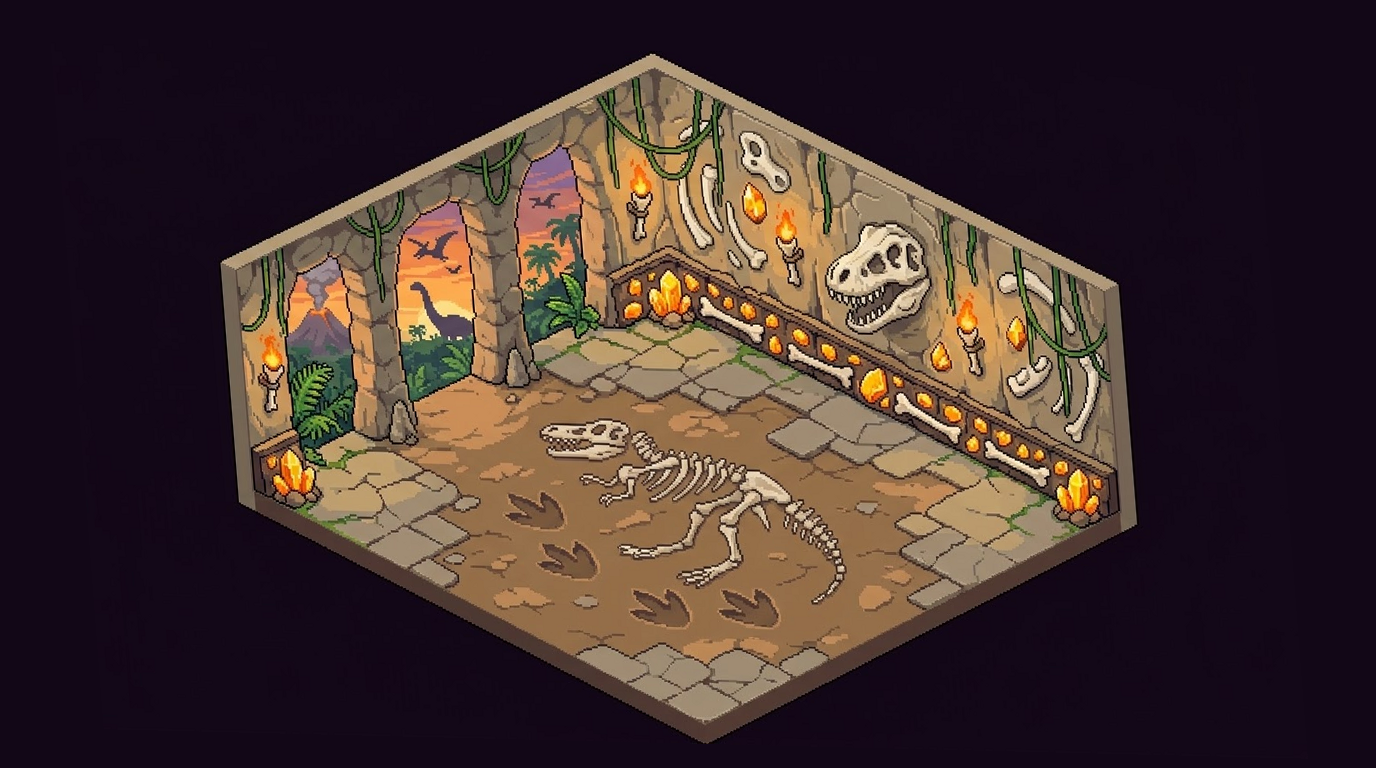
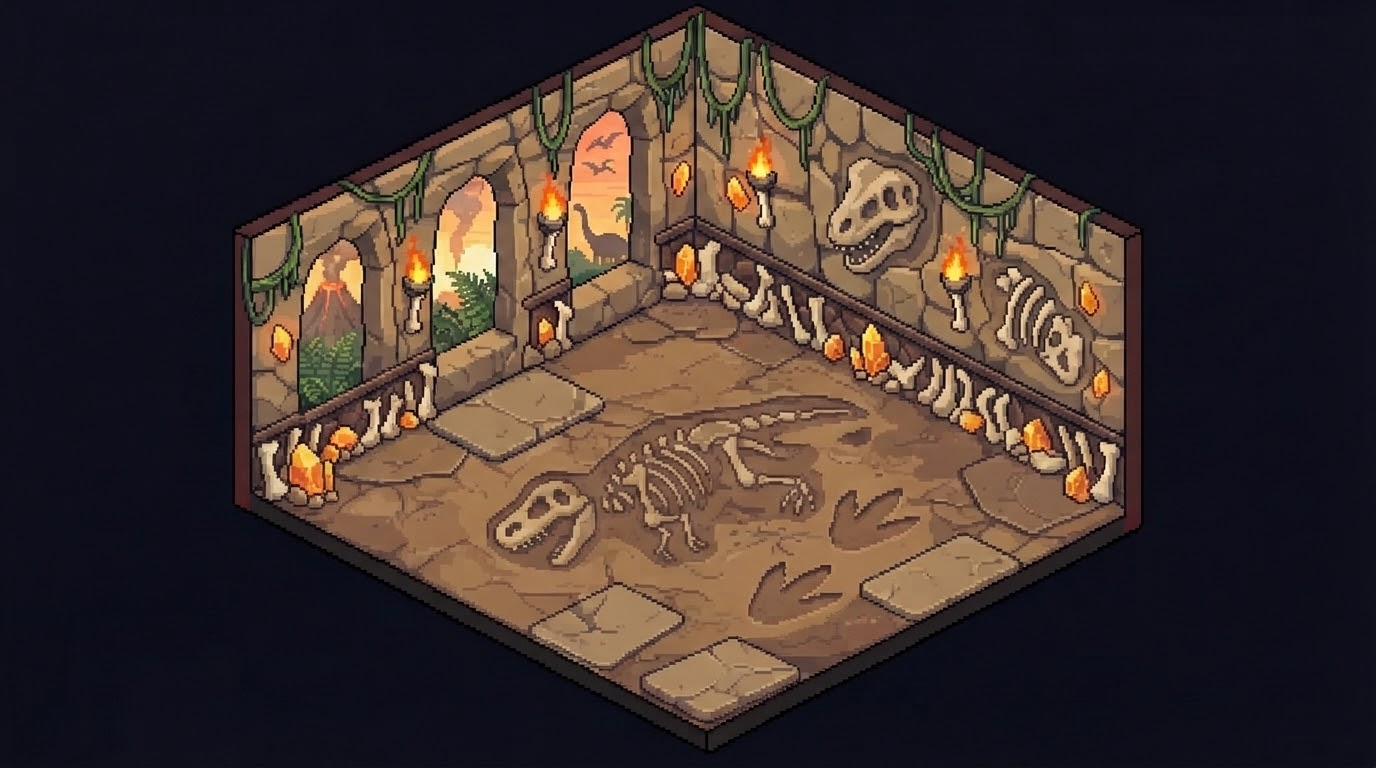
テーマ大量追加(第1弾6種)+ダイナソー作り直し
- Stitch製の新部屋: 幽霊屋敷/海賊船/サーキット/ドワーフ鉱山/地獄/スチームパンク
- ダイナソーを無理な変形なしで再生成(w905, 床がグリッドに自然整合)
- サイズ指定テンプレ改善: 「四隅にvoid余白を残す＝基準と同占有率」で過大化を抑制
- ROOM_TEX/SERIES/ROOM_THEMES/BG_META/preloadに登録。全15テーマに

diff --git a/factory-phaser.html b/factory-phaser.html
@@ -132,6 +132,12 @@ const SERIES={
   scifi:{n:'🚀 SF宇宙',    price:6000, sky:'scifi',    floor:'wood',    decos:[]},
   cabin:{n:'🌲 森コテージ', price:6000, sky:'cabin',    floor:'wood',    decos:[]},
   dino:{n:'🦖 ダイナソー',  price:6000, sky:'dino',     floor:'wood',    decos:[]},
+  haunted:{n:'👻 幽霊屋敷',  price:6000, sky:'haunted',  floor:'wood',    decos:[]},
+  pirate:{n:'🏴☠ 海賊船',   price:6000, sky:'pirate',   floor:'wood',    decos:[]},
+  circuit:{n:'🏁 サーキット', price:6000, sky:'circuit',  floor:'wood',    decos:[]},
+  dwarf:{n:'⛏ ドワーフ鉱山', price:6000, sky:'dwarf',    floor:'wood',    decos:[]},
+  hell:{n:'😈 地獄',         price:6000, sky:'hell',     floor:'wood',    decos:[]},
+  steampunk:{n:'⚙ スチパン', price:6000, sky:'steampunk',floor:'wood',    decos:[]},
 };
 
 let G={ pity:0, inv:{}, prodP:90, money:0, machines:[{type:'red',lvl:1}], belts:0, decos:{},
@@ -316,9 +322,9 @@ function applyOwned(){ const s=window.__scene; if(!s)return;
   reconcileStock(); saveGame();
   s.setSkyTheme(G.bg); s.setFloor(G.floor); s.applySkins(G.skins); }
 /* ===== 編集パレット: 大項目→在庫から選ぶ→床クリックで設置 ===== */
-const ROOM_THEMES=['arabia','undersea','japan','china','diner','fantasy','scifi','cabin','dino'];
+const ROOM_THEMES=['arabia','undersea','japan','china','diner','fantasy','scifi','cabin','dino','haunted','pirate','circuit','dwarf','hell','steampunk'];
 const SKY_THEMES=['blue','sunset','night','space','aurora'];
-const BG_META={auto:{e:'🕐',n:'標準'},blue:{e:'☀',n:'快晴'},sunset:{e:'🌆',n:'夕焼け'},night:{e:'🌙',n:'星空'},space:{e:'🌌',n:'宇宙'},aurora:{e:'🌈',n:'オーロラ'},arabia:{e:'🕌',n:'アラビア'},undersea:{e:'🐚',n:'海底'},japan:{e:'⛩',n:'日本'},china:{e:'🐉',n:'中華'},diner:{e:'🍔',n:'ダイナー'},fantasy:{e:'🧙',n:'ファンタジー'},scifi:{e:'🚀',n:'SF宇宙'},cabin:{e:'🌲',n:'森コテージ'},dino:{e:'🦖',n:'ダイナソー'}};
+const BG_META={auto:{e:'🕐',n:'標準'},blue:{e:'☀',n:'快晴'},sunset:{e:'🌆',n:'夕焼け'},night:{e:'🌙',n:'星空'},space:{e:'🌌',n:'宇宙'},aurora:{e:'🌈',n:'オーロラ'},arabia:{e:'🕌',n:'アラビア'},undersea:{e:'🐚',n:'海底'},japan:{e:'⛩',n:'日本'},china:{e:'🐉',n:'中華'},diner:{e:'🍔',n:'ダイナー'},fantasy:{e:'🧙',n:'ファンタジー'},scifi:{e:'🚀',n:'SF宇宙'},cabin:{e:'🌲',n:'森コテージ'},dino:{e:'🦖',n:'ダイナソー'},haunted:{e:'👻',n:'幽霊屋敷'},pirate:{e:'🏴☠',n:'海賊船'},circuit:{e:'🏁',n:'サーキット'},dwarf:{e:'⛏',n:'ドワーフ鉱山'},hell:{e:'😈',n:'地獄'},steampunk:{e:'⚙',n:'スチパン'}};
 function ownedBgs(){ const a=['auto']; for(const k of SKY_THEMES) if(G.bgOwned.includes(k)) a.push(k); for(const k of ROOM_THEMES) if(G.seriesOwned.includes(k)) a.push(k); return a; }
 function applyBg(k){ G.bg=k; if(window.__scene){ window.__scene.setSkyTheme(k); window.__scene.setFloor(ROOM_THEMES.includes(k)?'wood':G.floor); } saveGame(); updateBadge(); }
 const paletteEl=document.getElementById('palette');

diff --git a/game/main.js b/game/main.js
@@ -49,7 +49,8 @@ const MACHINES = ['m_red','m_blue','m_green','m_yellow'];
 const MACHS_JP = { red:'抽出機', green:'成形機', blue:'演算機', yellow:'選別機' };
 // テーマ専用の部屋画像(Stitch製・壁/床/窓を焼き込み)。ここにあるテーマは背景ごと差し替える
 const ROOM_TEX = { arabia:'room_arabia', undersea:'room_undersea', japan:'room_japan', china:'room_china',
-  diner:'room_diner', fantasy:'room_fantasy', scifi:'room_scifi', cabin:'room_cabin', dino:'room_dino' };
+  diner:'room_diner', fantasy:'room_fantasy', scifi:'room_scifi', cabin:'room_cabin', dino:'room_dino',
+  haunted:'room_haunted', pirate:'room_pirate', circuit:'room_circuit', dwarf:'room_dwarf', hell:'room_hell', steampunk:'room_steampunk' };
 const PROP_NAMES = ['vase','palm','rug','flantern','fountain','chest','cushion','bonsai','lantern','pedestal','flower','screen'];  // Stitch製 装飾プロップ
 // エージェントのスキン(頭アクセ e + 体の色 body)。クリックで巡回・プロジェクト単位で永続化。
 const SKINS = [
@@ -85,6 +86,7 @@ class Main extends Phaser.Scene {
     this.load.image('room_scifi','assets/room-scifi.png');
     this.load.image('room_cabin','assets/room-cabin.png');
     this.load.image('room_dino','assets/room-dino.png');
+    for(const n of ['haunted','pirate','circuit','dwarf','hell','steampunk']) this.load.image('room_'+n, `assets/room-${n}.png`);
     for(const n of PROP_NAMES) this.load.image('prop_'+n, `assets/prop_${n}.png`);
     for(const m of MACHINES) this.load.image(m, `assets/obj_${m}_d0.png`);
     for(const d of DECOR) this.load.image('dec_'+d, `assets/obj_${d}.png`);
